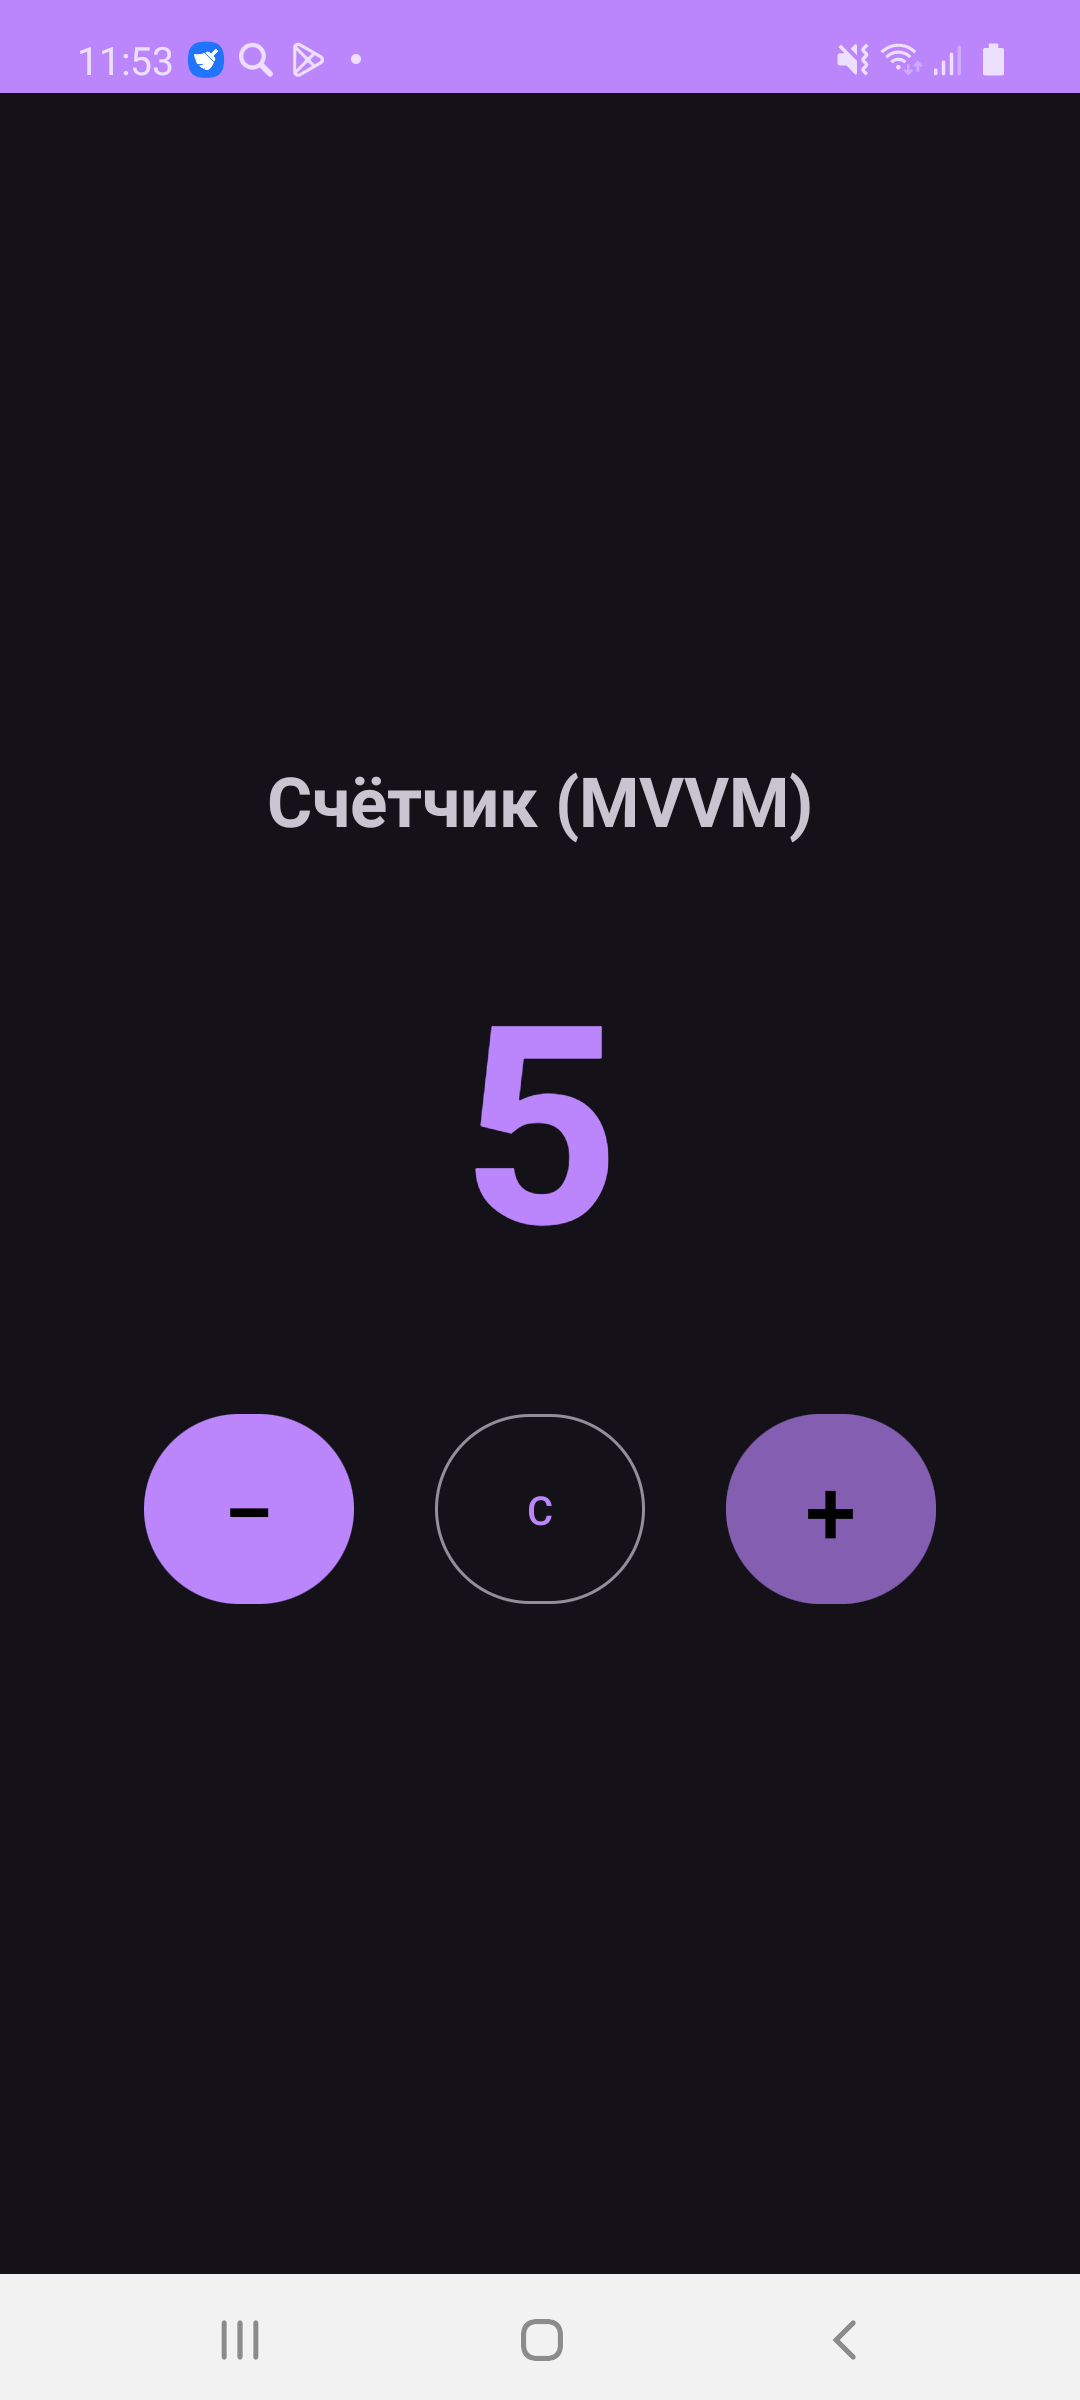
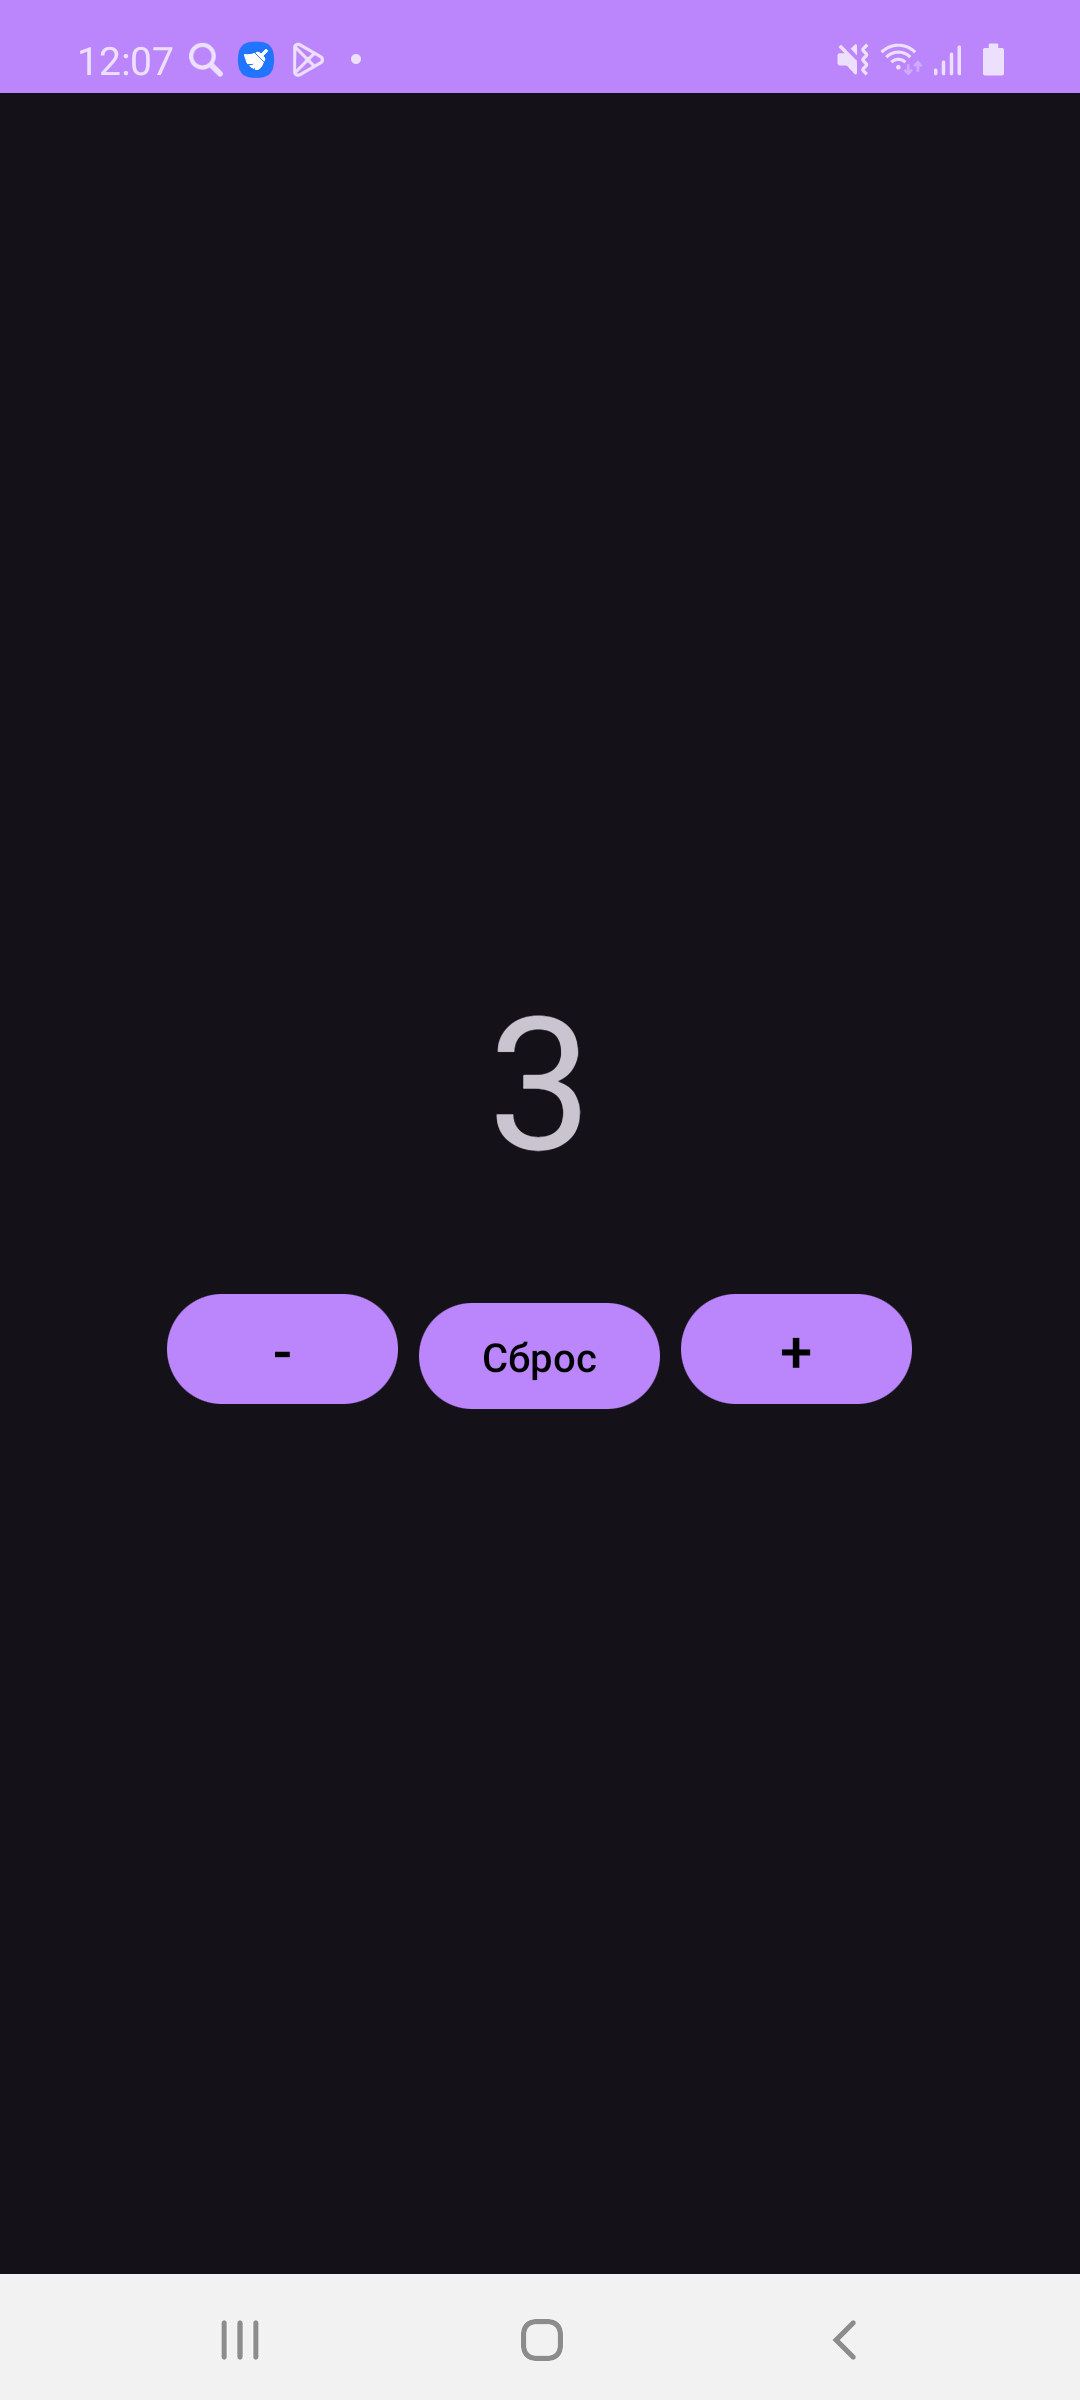
Simplify MVVMCounter architecture and UI layout

diff --git a/MVVMCounter/app/src/main/java/com/example/mvvmcounter/MainActivity.kt b/MVVMCounter/app/src/main/java/com/example/mvvmcounter/MainActivity.kt
@@ -1,0 +1,38 @@
+package com.example.mvvmcounter
+
+import android.os.Bundle
+import android.widget.Button
+import android.widget.TextView
+import androidx.activity.viewModels
+import androidx.appcompat.app.AppCompatActivity
+
+class MainActivity : AppCompatActivity() {
+
+    private val viewModel: CounterViewModel by viewModels()
+
+    override fun onCreate(savedInstanceState: Bundle?) {
+        super.onCreate(savedInstanceState)
+        setContentView(R.layout.activity_main)
+
+        val tvCounter = findViewById<TextView>(R.id.tvCounter)
+        val btnPlus = findViewById<Button>(R.id.btnPlus)
+        val btnMinus = findViewById<Button>(R.id.btnMinus)
+        val btnReset = findViewById<Button>(R.id.btnReset)
+
+        viewModel.counter.observe(this) { count ->
+            tvCounter.text = count.toString()
+        }
+
+        btnPlus.setOnClickListener {
+            viewModel.increment()
+        }
+
+        btnMinus.setOnClickListener {
+            viewModel.decrement()
+        }
+
+        btnReset.setOnClickListener {
+            viewModel.reset()
+        }
+    }
+}

diff --git a/MVVMCounter/app/src/main/java/com/example/mvvmcounter/CounterViewModel.kt b/MVVMCounter/app/src/main/java/com/example/mvvmcounter/CounterViewModel.kt
@@ -1,22 +1,14 @@
-package com.example.mvvmcounter.viewmodel
+package com.example.mvvmcounter
 
 import androidx.lifecycle.LiveData
 import androidx.lifecycle.MutableLiveData
 import androidx.lifecycle.ViewModel
-import com.example.mvvmcounter.model.CounterModel
 
-/**
- * ViewModel — связующее звено между Model и View.
- * Хранит состояние счётчика и предоставляет LiveData для наблюдения из View.
- */
 class CounterViewModel : ViewModel() {
-
     private val model = CounterModel()
 
     private val _counter = MutableLiveData(model.count)
-
-    /** Неизменяемая LiveData для наблюдения из Activity/Fragment */
-    val counter: LiveData<Int> get() = _counter
+    val counter: LiveData<Int> = _counter
 
     fun increment() {
         model.increment()

diff --git a/MVVMCounter/app/src/main/java/com/example/mvvmcounter/CounterModel.kt b/MVVMCounter/app/src/main/java/com/example/mvvmcounter/CounterModel.kt
@@ -1,0 +1,17 @@
+package com.example.mvvmcounter
+
+class CounterModel {
+    var count = 0
+
+    fun increment() {
+        count++
+    }
+
+    fun decrement() {
+        count--
+    }
+
+    fun reset() {
+        count = 0
+    }
+}

diff --git a/MVVMCounter/app/src/test/java/com/example/mvvmcounter/CounterModelTest.kt b/MVVMCounter/app/src/test/java/com/example/mvvmcounter/CounterModelTest.kt
@@ -1,6 +1,5 @@
 package com.example.mvvmcounter
 
-import com.example.mvvmcounter.model.CounterModel
 import org.junit.Assert.assertEquals
 import org.junit.Before
 import org.junit.Test

diff --git a/MVVMCounter/README.md b/MVVMCounter/README.md
@@ -1,57 +1,14 @@
-# MVVM Counter (Счётчик на MVVM паттерне)
+# Счётчик на MVVM паттерне
 
-Простое Android-приложение «Счётчик», реализованное с использованием архитектурного паттерна **MVVM (Model-View-ViewModel)** и компонентов Android Jetpack (`ViewModel`, `LiveData`, `ViewBinding`).
+Простое учебное приложение счётчика на архитектуре MVVM с использованием `ViewModel` и `LiveData`.
 
-## Скриншот работы приложения
+## Скриншот работы
 
-![Счётчик MVVM](screenshots/screenshot_counter.png)
+![Скриншот](screenshots/screenshot_counter.png)
 
-## Архитектура приложения
-
-Приложение чётко разделено на три слоя в соответствии с шаблоном MVVM:
-
-```
-                  ┌────────────────────────┐
-                  │          View          │
-                  │     (MainActivity)     │
-                  └───────────┬────────────┘
-                              │  ▲
-             вызовы методов   │  │ подписка на LiveData
-             (User Actions)   │  │ (Data Observation)
-                              ▼  │
-                  ┌────────────────────────┐
-                  │       ViewModel        │
-                  │   (CounterViewModel)   │
-                  └───────────┬────────────┘
-                              │  ▲
-             бизнес-логика    │  │ возвращаемые данные
-                              ▼  │
-                  ┌────────────────────────┐
-                  │         Model          │
-                  │     (CounterModel)     │
-                  └────────────────────────┘
-```
-
-### 1. Model (`model/CounterModel.kt`)
-* Инкапсулирует состояние счётчика (`count`) и правила его изменения.
-* Предоставляет методы `increment()`, `decrement()` и `reset()`.
-* Полностью изолирована от Android фреймворка, что облегчает её независимое модульное тестирование.
-
-### 2. ViewModel (`viewmodel/CounterViewModel.kt`)
-* Наследуется от `androidx.lifecycle.ViewModel`.
-* Хранит состояние с использованием `MutableLiveData` (приватное) и публичного неизменяемого `LiveData`.
-* Сохраняет состояние при перевороте экрана (configuration change).
-* Делегирует операции изменения данных слою Model и уведомляет View через обновление LiveData.
-
-### 3. View (`view/MainActivity.kt`)
-* Наследуется от `AppCompatActivity`.
-* Использует `ViewBinding` для безопасного доступа к элементам интерфейса.
-* Подписывается на `counter: LiveData<Int>` из `CounterViewModel`.
-* Перенаправляет действия пользователя (нажатия на кнопки) в соответствующие методы ViewModel.
-
-## Возможности
-* Увеличение счётчика (`+`).
-* Уменьшение счётчика (`−`).
-* Сброс значения к 0 (`C`).
-* Сохранение состояния при смене конфигурации (поворот экрана).
-* Модульные unit-тесты (`CounterModelTest`).
+## Структура проекта
+* `CounterModel.kt` — модель данных счётчика (увеличение, уменьшение, сброс).
+* `CounterViewModel.kt` — хранит состояние через `LiveData` и связывает модель с экраном.
+* `MainActivity.kt` — отображает значение счётчика и обрабатывает нажатия кнопок.
+* `activity_main.xml` — простой макет на `LinearLayout` с текстовым полем и тремя кнопками (`-`, `Сброс`, `+`).
+* `CounterModelTest.kt` — юнит-тесты логики счётчика.
